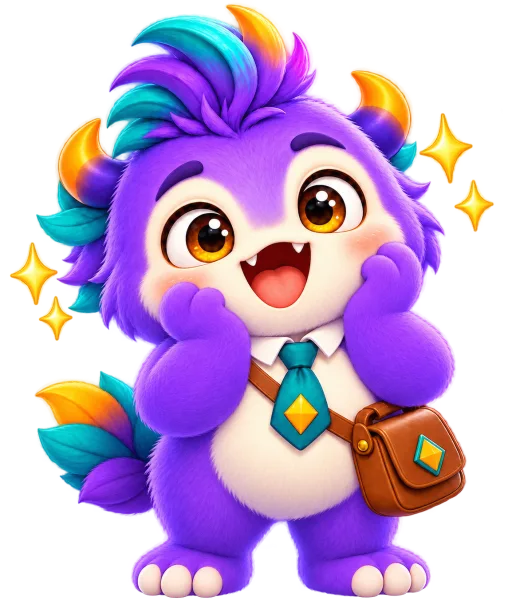
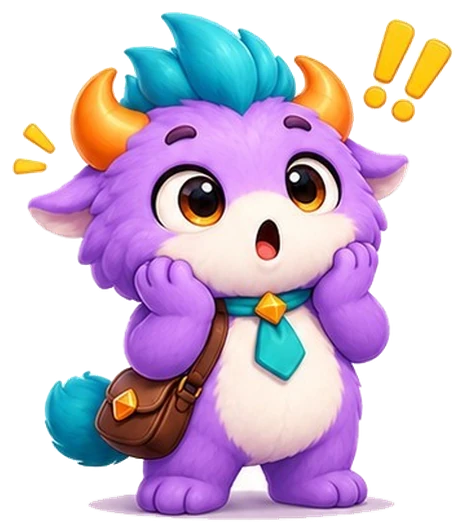
feat: official Dome mascot from teammate

diff --git a/components/ui/speech-bubble.tsx b/components/ui/speech-bubble.tsx
@@ -8,13 +8,14 @@ import { cn } from './cn'
  * โดยไม่มีกล่องคำพูด และบางหน้าอยากได้กล่องคำพูดโดยไม่มีรูป
  */
 
-export type DomeMood = 'greet' | 'cheer' | 'happy' | 'think' | 'encourage' | 'explain' | 'surprised' | 'celebrate' | 'wait'
+export type DomeMood = 'greet' | 'cheer' | 'happy' | 'think' | 'tired' | 'encourage' | 'explain' | 'surprised' | 'celebrate' | 'wait'
 
 const MOOD_ALT: Record<DomeMood, string> = {
   greet: 'โดมยกมือทักทาย',
   cheer: 'โดมชูกำปั้นให้กำลังใจ',
   happy: 'โดมชูสองมือดีใจ',
   think: 'โดมกำลังคิดอย่างสงสัย',
+  tired: 'โดมนั่งพักอย่างเหนื่อยล้า',
   encourage: 'โดมยกนิ้วให้กำลังใจ',
   explain: 'โดมกำลังชี้อธิบาย',
   surprised: 'โดมทำหน้าประหลาดใจพร้อมประกายเล็ก ๆ',
@@ -27,11 +28,13 @@ const DOME_ASSET: Record<DomeMood, string> = {
   cheer: '/dome/mascot/dome-cheer.webp',
   happy: '/dome/mascot/dome-happy.webp',
   think: '/dome/mascot/dome-think.webp',
-  encourage: '/dome/mascot/dome-encourage.webp',
+  tired: '/dome/mascot/dome-tired.webp',
+  // ชีตทางการไม่มี pose แยกสำหรับสองอารมณ์นี้ จึงใช้ pose ทางการที่ใกล้ที่สุด
+  encourage: '/dome/mascot/dome-cheer.webp',
   explain: '/dome/mascot/dome-explain.webp',
   surprised: '/dome/mascot/dome-surprised.webp',
   celebrate: '/dome/mascot/dome-celebrate.webp',
-  wait: '/dome/mascot/dome-wait.webp',
+  wait: '/dome/mascot/dome-think.webp',
 }
 
 export type DomeAvatarProps = {

diff --git a/docs/design-system.md b/docs/design-system.md
@@ -340,7 +340,7 @@ className เดียวกันเลย มันเกิดจากลู
 | `ProgressBar` | `value` · `max` · `label` · `tone` · `size` | `role="progressbar"` ครบ `aria-valuenow/min/max/valuetext` · แสดง % เป็นข้อความคู่กับแถบเสมอ |
 | `ChoiceCard` | `label` · `marker` · `selected` · `state` (idle/correct/wrong/locked) | `<button aria-pressed>` · ถูก/ผิดมีไอคอน **และ** ต่อท้าย aria-label ว่า "— ตอบถูก/ตอบผิด" |
 | `BottomNav` | `items` · `activeHref` · `ariaLabel` | ไม่ฝังเมนูไว้ในตัว · ไม่ใช้ `usePathname()` จึงยังเป็น server component ได้ · `aria-current="page"` · ป้ายตัวเลขมี `sr-only` อธิบาย |
-| `SpeechBubble` · `DomeSays` · `DomeAvatar` | `speaker` · `tail` · `mood` (greet/cheer/happy/think/encourage/explain/surprised/celebrate/wait) · `live` | `live` ตั้ง `role="status" aria-live="polite"` สำหรับข้อความที่ทยอยมาจาก AI |
+| `SpeechBubble` · `DomeSays` · `DomeAvatar` | `speaker` · `tail` · `mood` (greet/cheer/happy/think/tired/encourage/explain/surprised/celebrate/wait) · `live` | `live` ตั้ง `role="status" aria-live="polite"` สำหรับข้อความที่ทยอยมาจาก AI |
 | `Chip` · `ChipSlot` | `tone` · `selected` · `draggable` · `dragValue` · `onSelect` | ลากด้วยเมาส์ใช้ไม่ได้กับนิ้วและคีย์บอร์ด ชิปจึงรองรับ **แตะเลือกแล้วแตะช่องปลายทาง** ด้วย — หน้าที่เรียกใช้ต้องรองรับทางนี้เสมอ |
 | `Toast` · `ToastViewport` | `tone` · `duration` · `onDismiss` · `action` | error ใช้ `role="alert"` (ขัดจังหวะ) · success/info ใช้ `role="status"` · ลอยอยู่ **บนจอ** เพราะล่างมีแถบเมนูและนิ้วโป้งบัง |
 | `Skeleton` · `SkeletonGroup` | `shape` · `lines` · `width` · `height` | ตัว skeleton เป็น `aria-hidden` ทั้งหมด ประกาศ "กำลังโหลด" ครั้งเดียวที่ `SkeletonGroup` · จองพื้นที่ไว้ให้ CLS = 0 |
@@ -361,15 +361,16 @@ className เดียวกันเลย มันเกิดจากลู
 | `dome/mascot/dome-cheer.webp` | โดมมอนสเตอร์ชูกำปั้นให้กำลังใจ — ตอนนักเรียนติดหรือตอบผิด |
 | `dome/mascot/dome-happy.webp` | โดมมอนสเตอร์ชูสองมือดีใจ — ตอนผ่านภารกิจ |
 | `dome/mascot/dome-think.webp` | โดมมอนสเตอร์เอามือแตะคาง คิดอย่างสงสัย — ตอนให้คำใบ้หรือรอ AI |
-| `dome/mascot/dome-encourage.webp` | โดมมอนสเตอร์ยกนิ้วพร้อมรอยยิ้มอ่อนโยน — ตอนยังไม่ครบและให้ลองอีกนิด |
+| `dome/mascot/dome-tired.webp` | โดมมอนสเตอร์นั่งพักอย่างเหนื่อยล้า — ใช้เฉพาะสถานะพัก/พักก่อนหรือหน้าขัดข้องด้านเครือข่าย ไม่ใช้แทนผลตอบผิด |
 | `dome/mascot/dome-explain.webp` | โดมมอนสเตอร์ชี้ด้านข้างเพื่ออธิบาย — ตอนดูคลิป อ่านการ์ด หรือเรียนบทนำ |
 | `dome/mascot/dome-surprised.webp` | โดมมอนสเตอร์ทำหน้าว้าวพร้อมประกายเล็ก ๆ — ตอนค้นพบหรือเกิดอีเวนต์ |
 | `dome/mascot/dome-celebrate.webp` | โดมมอนสเตอร์กระโดดฉลองพร้อมกระดาษโปรย — ตอนจบภารกิจหรือรับใบประกาศ |
-| `dome/mascot/dome-wait.webp` | โดมมอนสเตอร์ยืนรอฟังอย่างสงบ — หน้าพักที่ให้ดูจอหน้าห้อง |
 | `shop/shop-stage-1..4.svg` | ร้าน isometric 4 สเตจ: ที่ดินเปล่า → ลงเสา → ผนัง+หลังคา → เปิดร้านพร้อมป้ายเว็บ |
 | `icons/nav-{home,quest,knowledge,reward,profile}.svg` | ไอคอน 5 ปุ่มเมนูล่าง |
 | `icons/star-full.svg` · `star-empty.svg` | ดาวเต็ม / ดาวว่าง |
 | `icons/badge-certificate.svg` | ตราเกียรติบัตร |
+
+มาสคอตชุดนี้ตัดจากชีตทางการของทีมใน `UI/mascot/dome-sheet-official.jpg` และเป็น canonical runtime art (พื้นหลังโปร่งใส WebP ใน `public/dome/mascot/`); `encourage` ใช้ pose `cheer` และ `wait` ใช้ pose `think` เพราะชีตไม่มี pose แยก. ห้ามใช้ `tired` กับ feedback คำตอบผิด — ใช้ได้เฉพาะพัก/พักก่อนหรือ network-error screen. ภาพแผนที่เกาะใน `UI/03 คุยกับโดม/*.png` ยังเป็นงาน teammate รุ่นผมเก่าและจงใจคงไว้ ไม่ใช่ runtime mascot set.
 
 > **ไอคอนมี 2 ที่โดยตั้งใจ** — `components/ui/icons.tsx` เป็น inline SVG ใช้ `currentColor` จึงเปลี่ยนสีตามสถานะ active ได้ (`<img>` ทำไม่ได้) ส่วนไฟล์ใน `public/icons/` เป็นภาพชุดเดียวกันไว้ใช้ตอนต้องการไฟล์จริง เช่น og-image, PDF เกียรติบัตร, ส่งให้ฝ่ายสื่อ **แก้ที่ไหนต้องแก้ทั้งสองที่**
 
